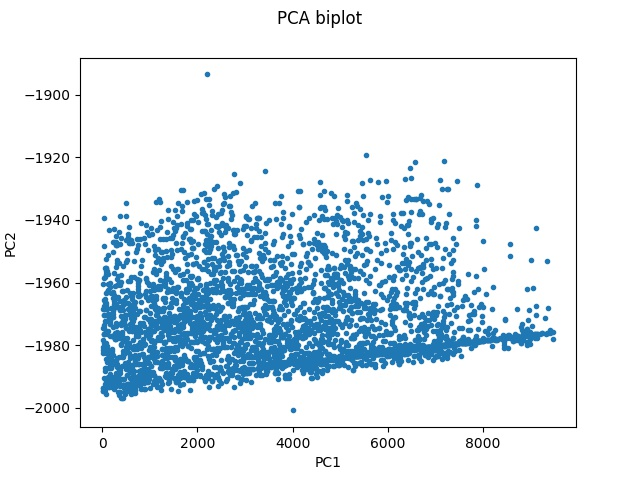
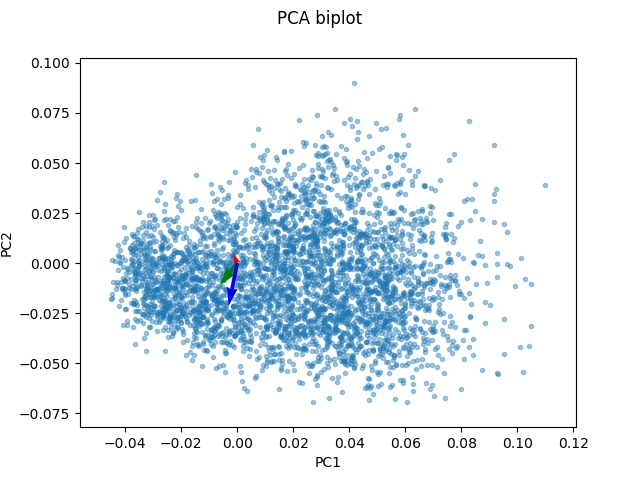
PCA

diff --git a/plot/PCA_biplot.py b/plot/PCA_biplot.py
@@ -6,6 +6,7 @@ from preprocess import fill_missing
 import matplotlib.mlab as mlab
 import matplotlib.pyplot as plt
 from sklearn.decomposition import PCA
+import sklearn
 
 filename_train = '../data/train.csv'
 train_dataset = transform(filename_train)
@@ -14,6 +15,8 @@ y = train_dataset['target']
     
 # fill in missing data (optional)
 X_full, discard_row = fill_missing(X, 'most_frequent', False)
+X_full = X_full[:,1:X_full.shape[1]-1]
+X_full = sklearn.preprocessing.normalize(X_full.astype(float), axis=0)
 y = np.delete(y,discard_row)
 
 pca = PCA(n_components=X_full.shape[1])
@@ -23,6 +26,10 @@ components = pca.components_
 component1 = components[0,:]
 component2 = components[1,:]
 
+n_features = X_full.shape[1]
+year_unit = np.array([10]+[0]*(n_features-1))
+income_unit = np.array([0,0]+[1]+[0]*(n_features-3))
+edu_unit = np.array([0]*9+[1]+[0]*(n_features-10))
 
 PC1_val = np.dot(X_full, component1)
 PC2_val = np.dot(X_full, component2)
@@ -33,5 +40,10 @@ fig = plt.figure()
 fig.suptitle("PCA biplot")
 plt.xlabel("PC1")
 plt.ylabel("PC2")
-plt.scatter(PC1_val,PC2_val,norm=1.0,marker='.')
+plt.scatter(PC1_val,PC2_val,norm=1.0,marker='.',alpha=0.4)
+
+ax=plt.gca()
+ax.quiver([0]*3,[0]*3,[np.dot(year_unit,component1),np.dot(income_unit,component1),np.dot(edu_unit,component1)],[np.dot(year_unit,component2),np.dot(income_unit,component2),np.dot(edu_unit,component2)],color=['r','g','b'])
+
+
 fig.savefig("PCA_biplot.jpg")
